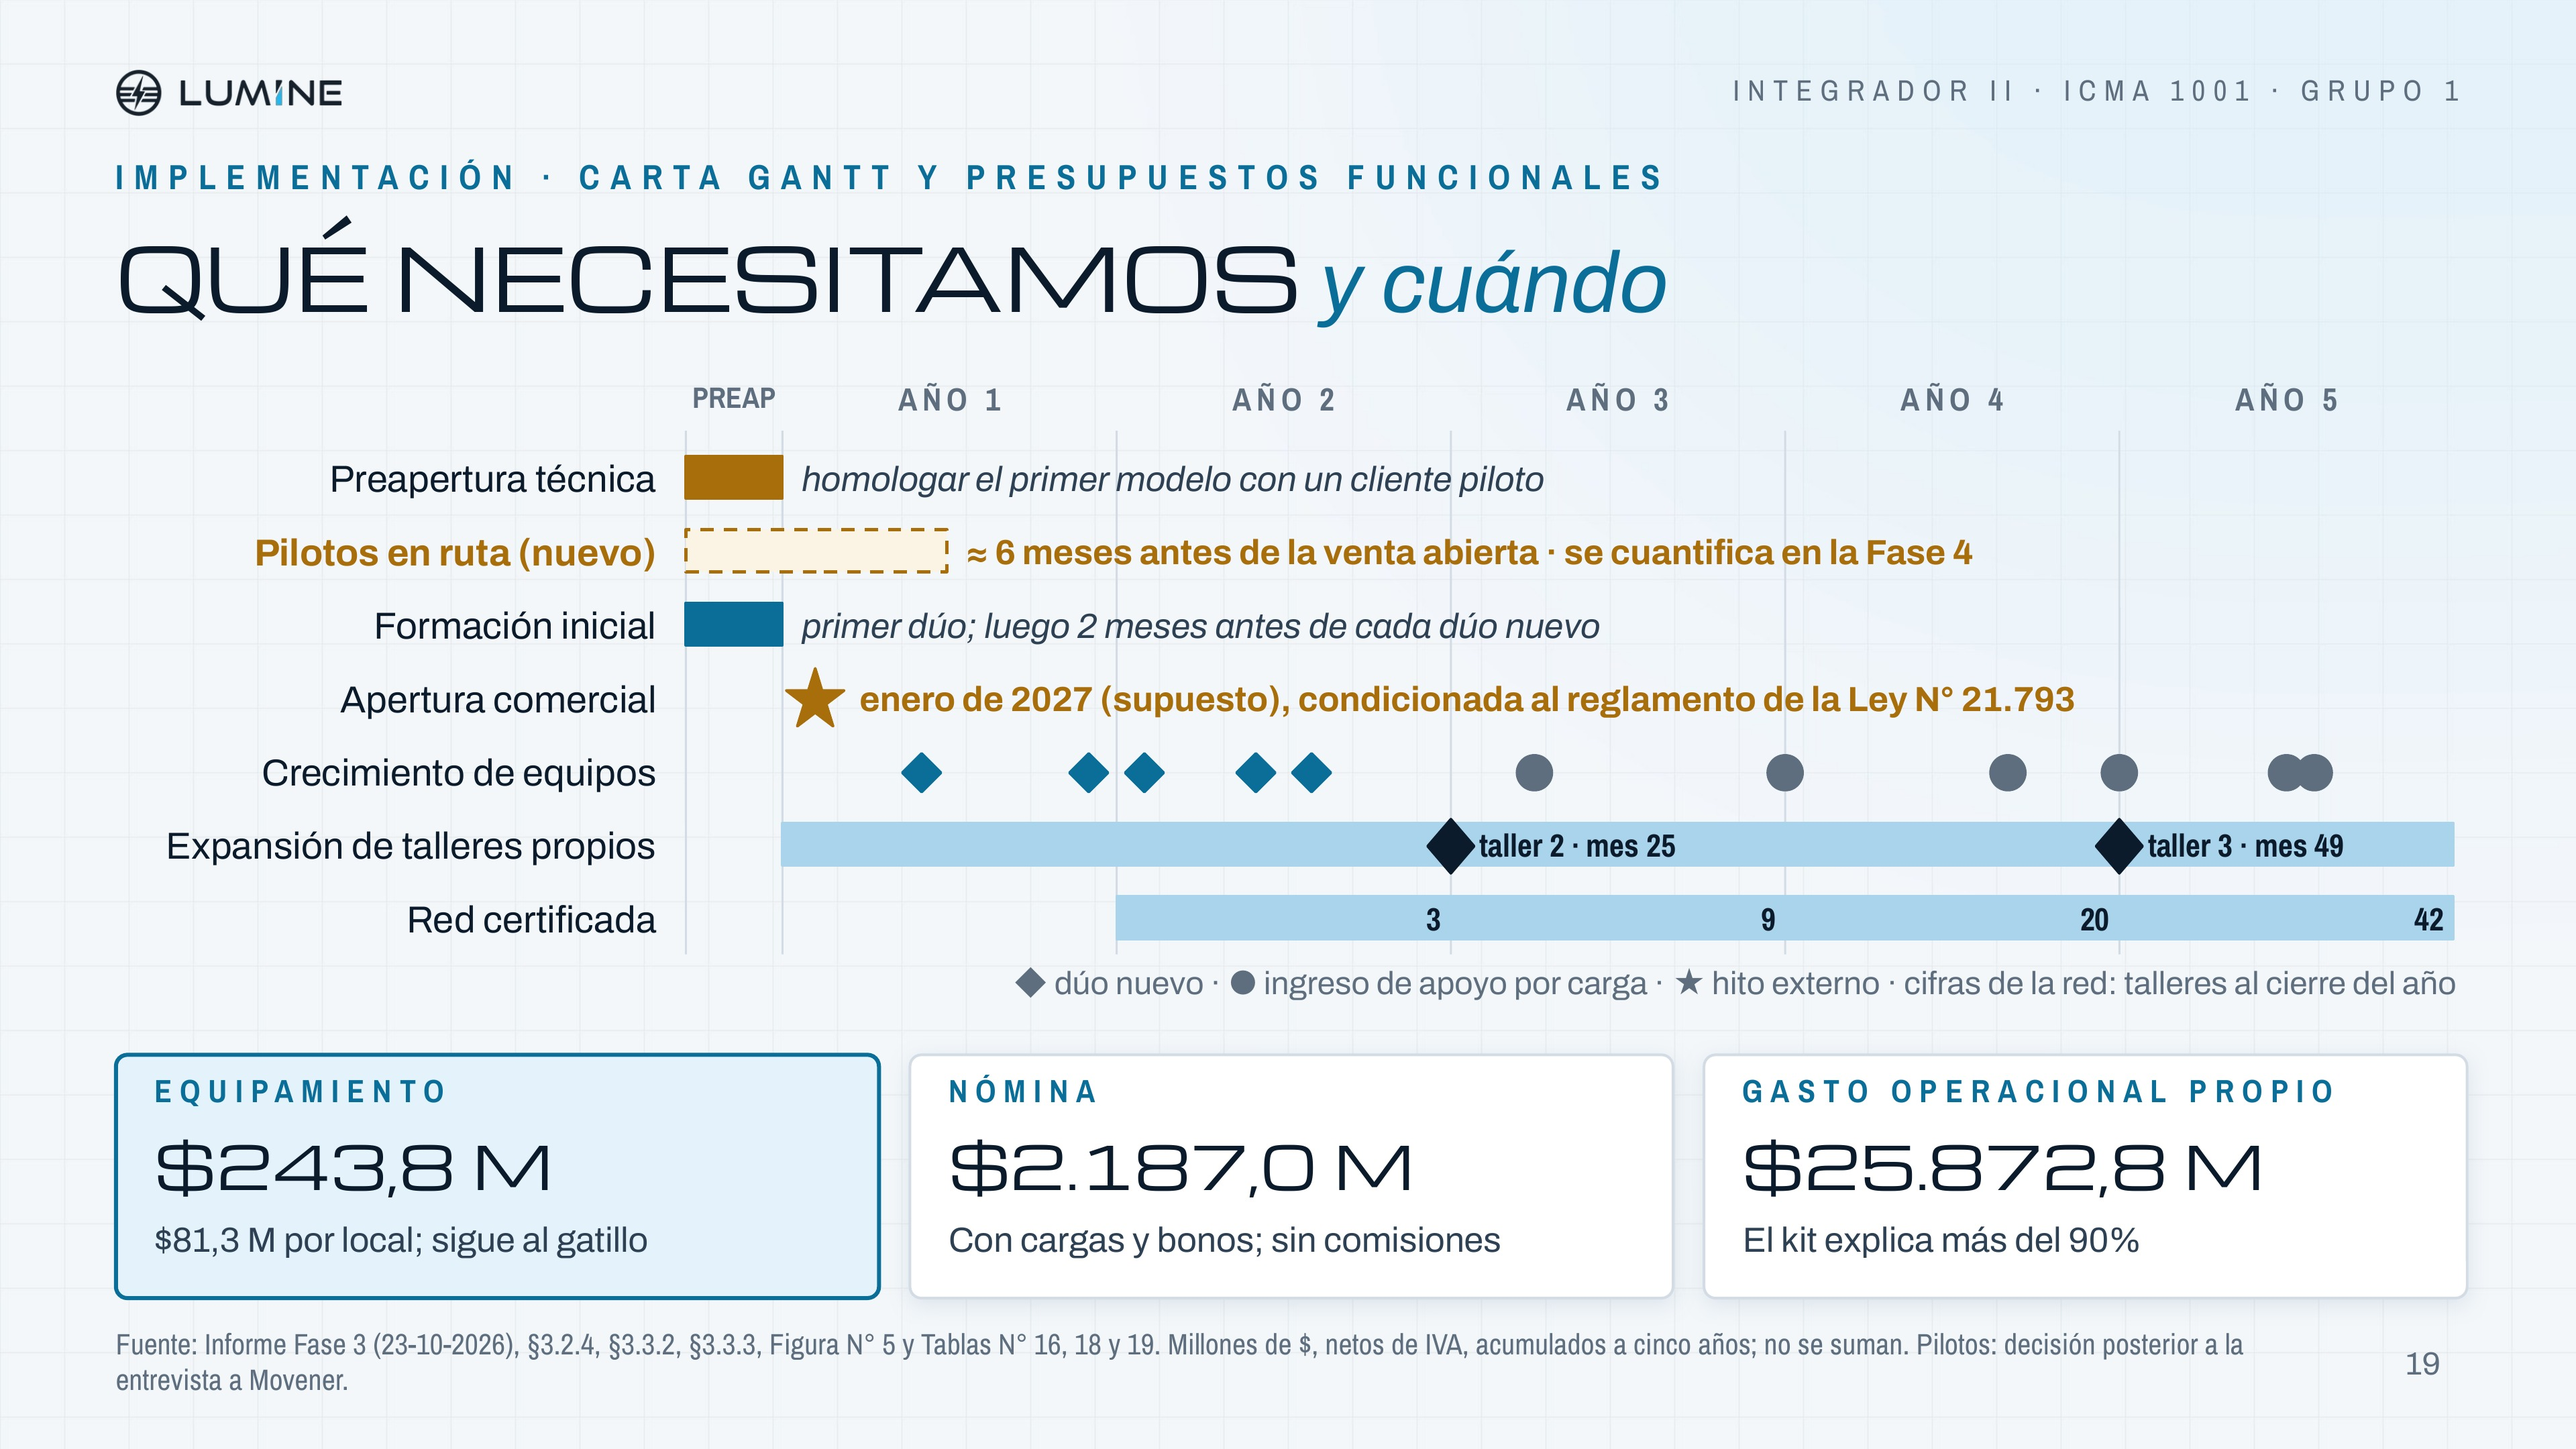
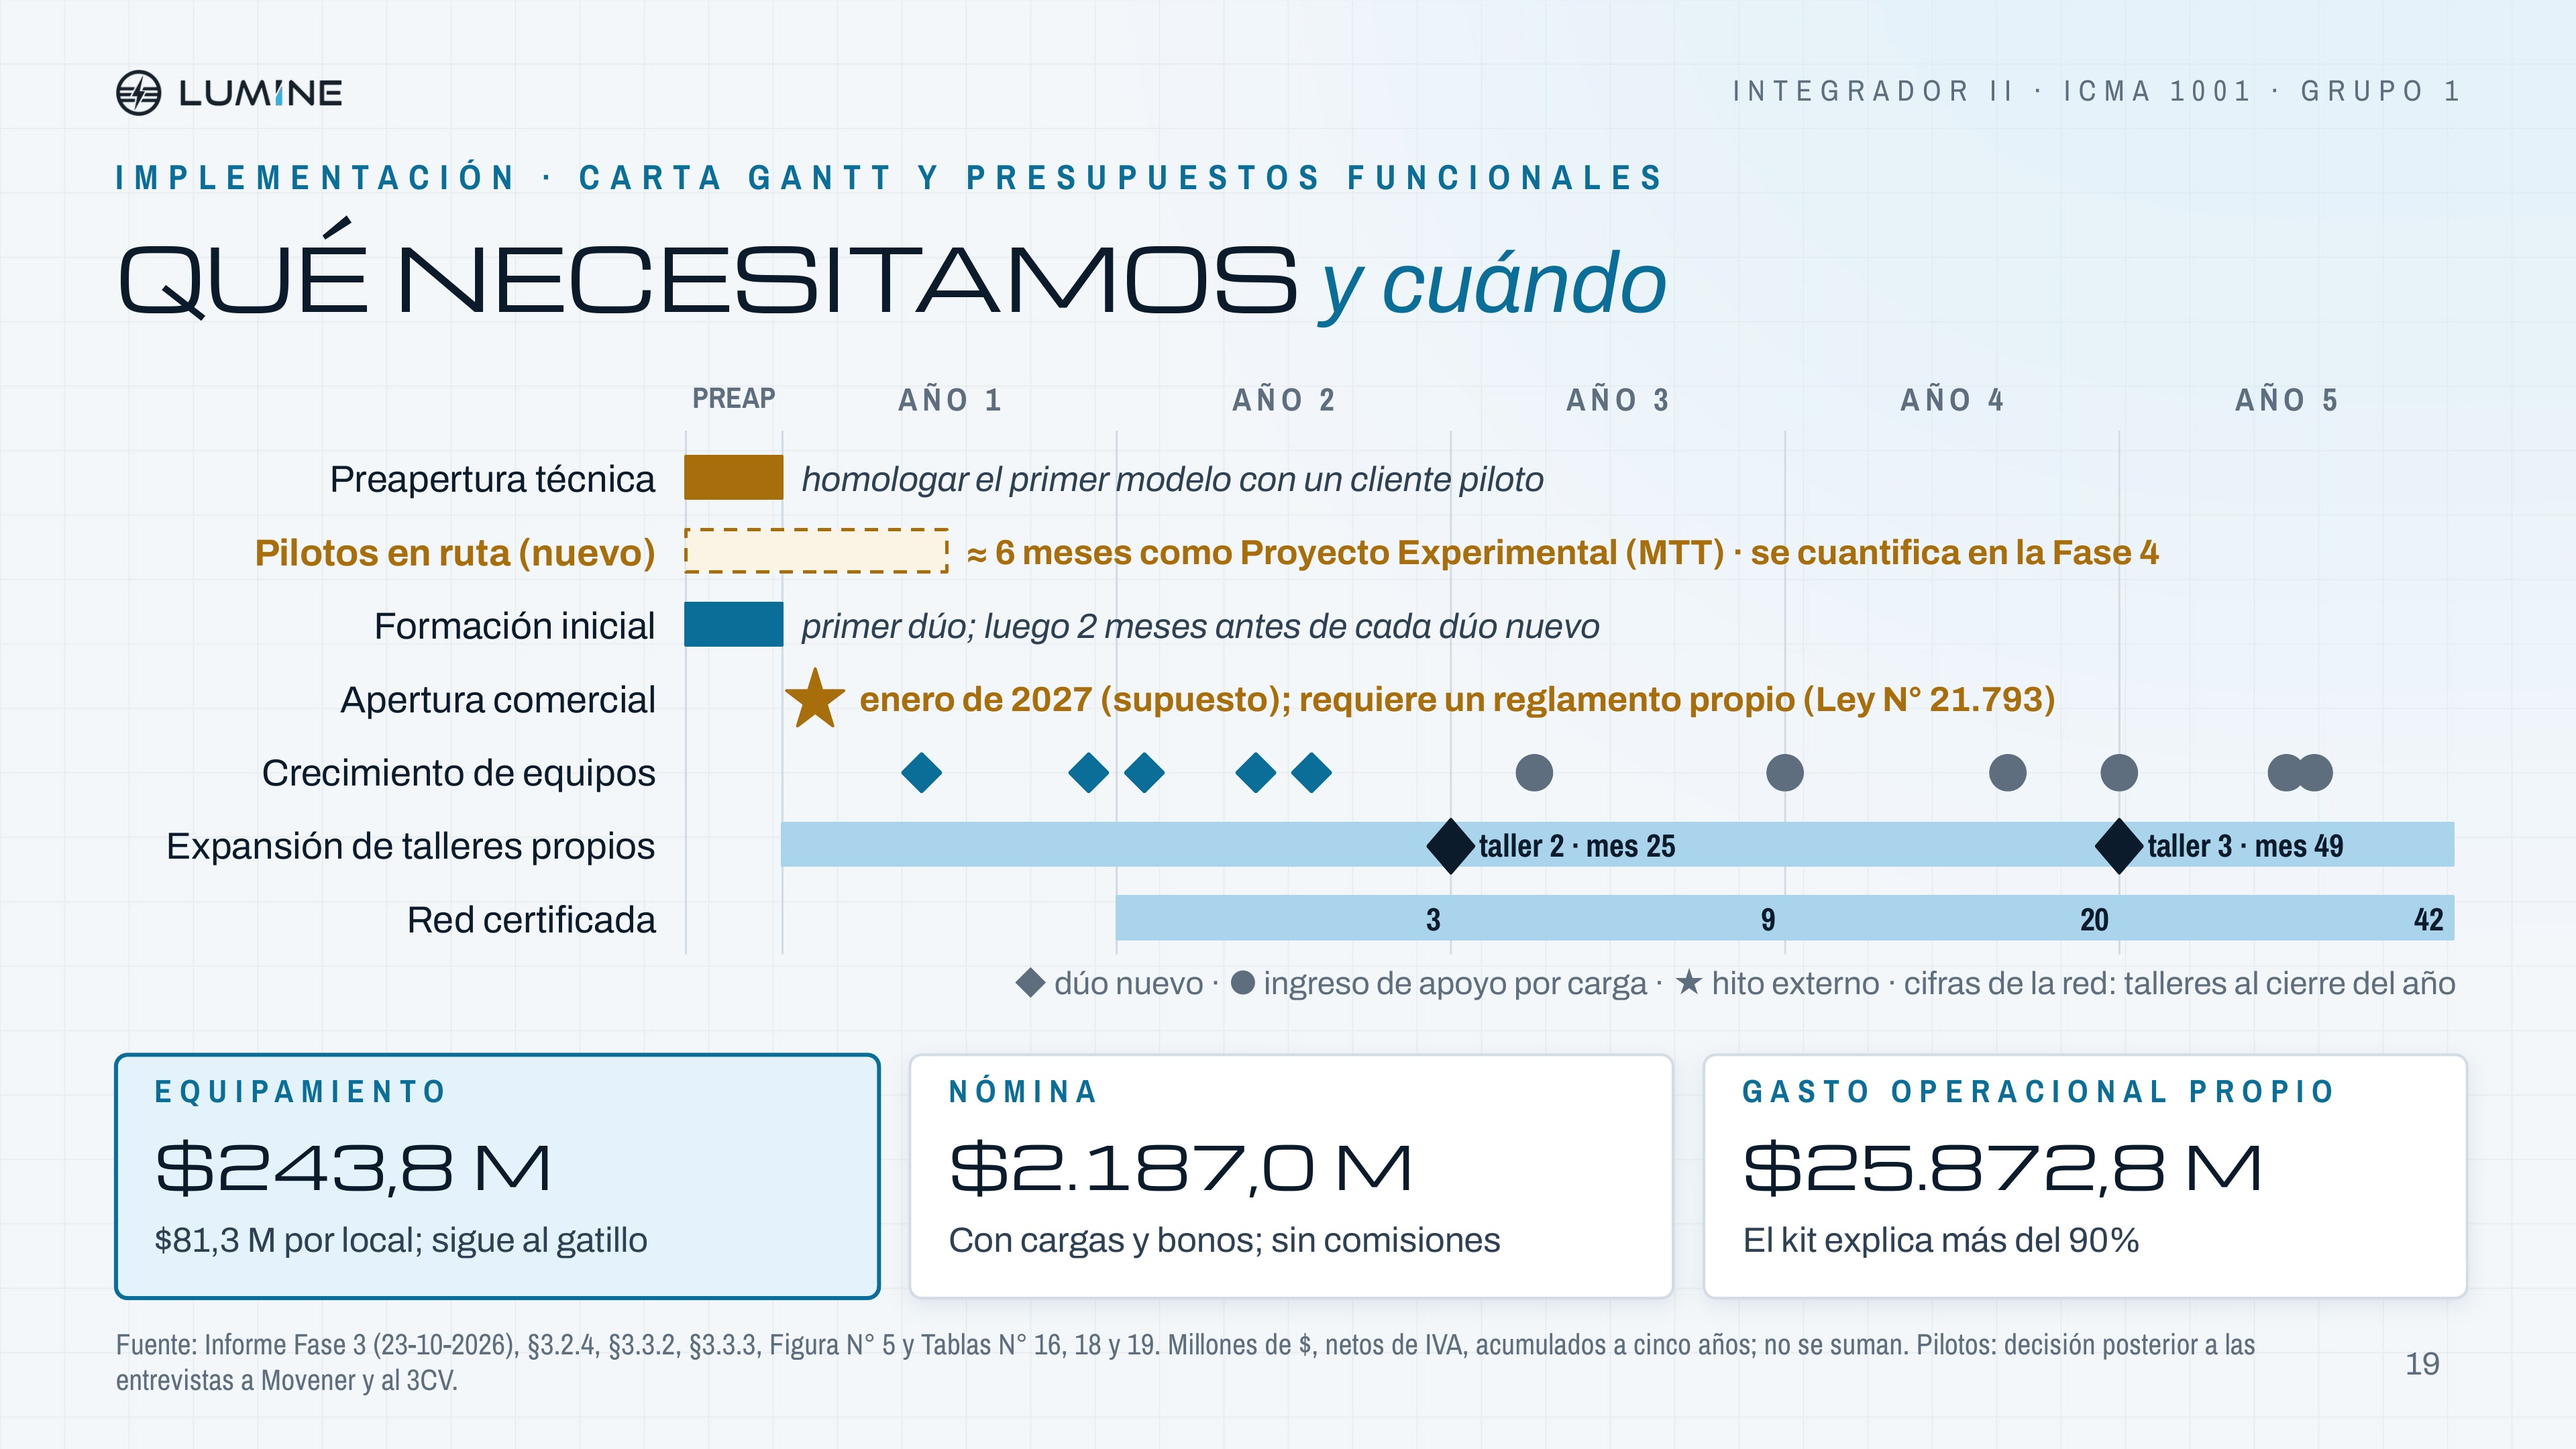
Presentaciones: Gantt y conclusiones con la vía de Proyectos Experimentales
Claude-Session: https://claude.ai/code/session_01HYdJEqP92jmAxSD5Uo2HH5

Changed region(s): [[0.4375, 0.3722, 0.8438, 0.4032], [0.5, 0.4653, 0.8125, 0.4963], [0.0938, 0.9306, 0.1875, 0.9616]]

diff --git a/lumine-presentaciones/fase3/deck-data.js b/lumine-presentaciones/fase3/deck-data.js
@@ -372,14 +372,14 @@ window.DECK = {
    "title": "Qué necesitamos y cuándo",
    "who": "Lukas Verdugo",
    "sec": 35,
-   "notes": "En el tiempo, el orden es este. Primero la preapertura: homologamos el primer modelo con un cliente piloto y formamos el primer dúo. Ahí se suma la etapa de pilotos en ruta que salió de la investigación. La apertura queda condicionada al reglamento de la Ley 21.793. En cinco años, el equipamiento suma 243,8 millones, la nómina 2.187 millones y el gasto operacional 25.873 millones, donde el kit pesa más del 90%."
+   "notes": "En el tiempo, el orden es este. Primero la preapertura: homologamos el primer modelo con un cliente piloto y formamos el primer dúo. Ahí se suma la etapa de pilotos en ruta que salió de la investigación, como Proyecto Experimental ante el Ministerio. La apertura queda condicionada al reglamento de la Ley 21.793. En cinco años, el equipamiento suma 243,8 millones, la nómina 2.187 millones y el gasto operacional 25.873 millones, donde el kit pesa más del 90%."
   },
   {
    "img": "slides/20.jpg",
    "title": "Sabemos qué vender y cómo ejecutarlo",
    "who": "Lukas Verdugo",
    "sec": 30,
-   "notes": "En resumen, ya sabemos a quién venderle, con qué promesa y cómo cumplirla. Quedan cuatro condiciones abiertas: el reglamento, el ahorro medido en ruta, los resultados de la investigación y el financiamiento. Por eso la pregunta que sigue es si este plan es financieramente viable. Muchas gracias."
+   "notes": "En resumen, ya sabemos a quién venderle, con qué promesa y cómo cumplirla. Quedan cuatro condiciones abiertas: un reglamento propio, que ahora tiene una vía para impulsarse, el ahorro medido en ruta, los resultados de la investigación y el financiamiento. Por eso la pregunta que sigue es si este plan es financieramente viable. Muchas gracias."
   },
   {
    "img": "slides/21.jpg",
